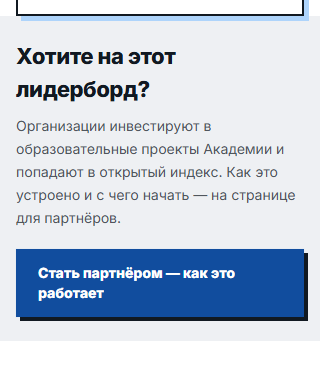
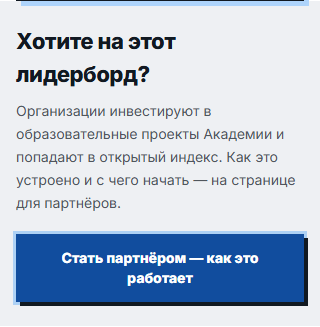
fix(3597): centre the wrapped 320 CTA label; pin the 045 page content at 320
The index CTA label now centres when it wraps (canvas text-align:center).
A 320 EARS-12 check scoped to the page's <main> pins the CTA fix while the
shared header overflow stays with #3629. The cabinet .twoUp hunk is
reverted: the cabinet already fits 360/320 on main.

Claude-Session: https://claude.ai/code/session_01BCe8sBPZBTfZj5TfCNF4pF

diff --git a/apps/portal/e2e/education-index-demo.spec.ts b/apps/portal/e2e/education-index-demo.spec.ts
@@ -352,8 +352,9 @@ test.describe("045 education-index demo · noindex + compliance words (V-7)", ()
 });
 
 // 390 is the canvas phone width (EARS-12); 360 is the narrow phone the same
-// «no sideways scroll» rule holds on (#3597). 320 joins with #3629: there the
-// shared storefront header still overflows on the Linux runner.
+// «no sideways scroll» rule holds on (#3597). The whole-document check joins
+// 320 with #3629: there the shared storefront header still overflows on the
+// Linux runner. The 045 page content itself is held to 320 below.
 for (const width of [390, 360]) {
   test.describe(`045 education-index demo · ${width} layout (V-1, EARS-12)`, () => {
     test.use({ viewport: { width, height: 1000 } });
@@ -388,3 +389,33 @@ for (const width of [390, 360]) {
     }
   });
 }
+
+// 320 (#3597): the 045 page content — the layout frame's one `<main>`, so the
+// shared storefront header and footer are outside it (#3629 owns the header) —
+// keeps every box inside the phone column.
+test.describe("045 education-index demo · 320 page content (V-1, EARS-12)", () => {
+  test.use({ viewport: { width: 320, height: 1000 } });
+
+  for (const route of [PUBLIC, CABINET]) {
+    test(`045 EARS-12: ${route} page content has no sideways overflow at 320`, async ({
+      page,
+    }) => {
+      await page.goto(route, { waitUntil: "networkidle" });
+      await page.evaluate(() => document.fonts.ready);
+      const overflowing = await page.evaluate(() =>
+        [...document.querySelectorAll("main *")]
+          .map((element) => ({ element, box: element.getBoundingClientRect() }))
+          .filter(({ box }) => box.width > 0 && box.right > innerWidth + 0.5)
+          .map(({ element, box }) => {
+            const label =
+              element.getAttribute("data-testid") ??
+              (element.textContent ?? "").trim().slice(0, 40);
+            return `${element.tagName.toLowerCase()}.${String(element.getAttribute("class") ?? "").slice(0, 60)} «${label}» right=${box.right.toFixed(1)}`;
+          }),
+      );
+      expect(overflowing, "page-content elements past the 320 edge").toEqual(
+        [],
+      );
+    });
+  }
+});

diff --git a/apps/portal/app/education-index/page.tsx b/apps/portal/app/education-index/page.tsx
@@ -272,7 +272,7 @@ function BecomePartner() {
         </div>
         {/* The DS Button is `whitespace-nowrap`; at 320 this label is wider
             than the phone column, so it wraps instead (#3597). */}
-        <Button asChild className="max-w-full whitespace-normal">
+        <Button asChild className="max-w-full whitespace-normal text-center">
           <NextLink href="/#partner-form">
             Стать партнёром — как это работает
           </NextLink>

diff --git a/apps/portal/app/education-index/_components/education-index.module.css b/apps/portal/app/education-index/_components/education-index.module.css
@@ -1184,10 +1184,8 @@
     grid-template-columns: 1fr;
     gap: var(--space-3);
   }
-  /* `1fr` keeps a min-content floor, so an unbreakable row pushed the card
-     past a 360/320 phone column (#3597); `minmax(0, 1fr)` lets it shrink. */
   .twoUp {
-    grid-template-columns: minmax(0, 1fr);
+    grid-template-columns: 1fr;
     gap: 16px;
   }
 }

diff --git a/.changeset/3597-education-index-cta-wrap.md b/.changeset/3597-education-index-cta-wrap.md
@@ -2,4 +2,4 @@
 "@ds/portal": patch
 ---
 
-045 education-index demo: on 360 and 320 phones the «Стать партнёром» block no longer pushes the index page sideways — the button text wraps and the two-up cards shrink to the column.
+045 education-index demo: on a 320 phone the «Стать партнёром» block no longer pushes the index page sideways — the button text wraps onto two centred lines.
